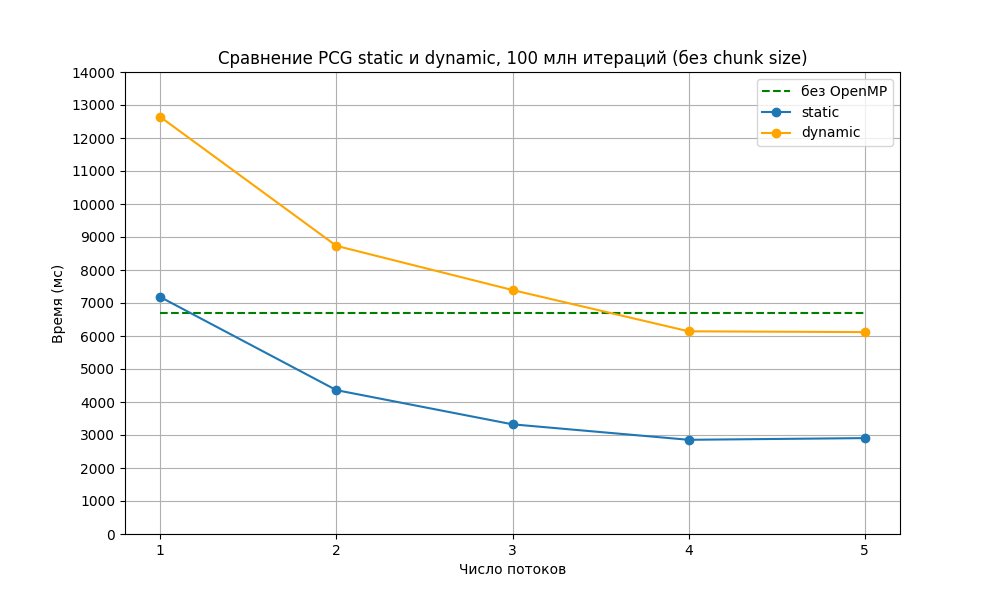
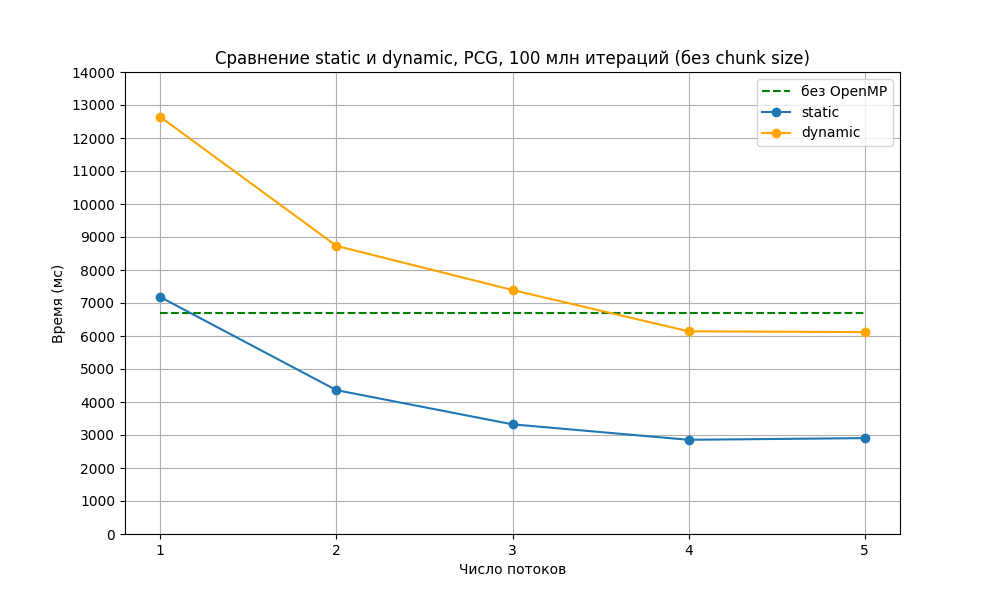
REPORT.md added

Changed region(s): [[0.217, 0.06, 0.806, 0.12]]

diff --git a/REPORT.md b/REPORT.md
@@ -1,37 +1,171 @@
-| Лабораторная работа №4 | M31<Группа> | АОВС |
+| Лабораторная работа №4 | M3101 | АОВС |
 | ---------------------- | ----------- | ---- |
-| OpenMP                 | <ФИО>       | 2024 |
+| OpenMP                 | Дорохина Елена       | 2024 |
 
-> [!important]  
-> Не забудьте указать в шапке свои ФИО и Номер группы
 
 ## Инструментарий
-> При наличии переписываем из ТЗ, если требуется, указываем свои данные (компилятор/стандарт и т.д.).
+Язык С++17, стандарт OpenMP 2.0. IDE Clion, компилятор cygwin64 3.5.0 c++
 
 ## Что реализовано
-> Пишем свой вариант и что было выполнено (упрощенная или полная версия работы). Если что-то по ТЗ не работает, то лучше указать это здесь.
+полная версия
+
+## Результат работы на тестовых данных: <https://github.com/skkv-itmo-comp-arch/se-ca24-backlog-omp-kaleidostop/actions/runs/10802062866> 
 
 # Описание:
+### Результат работы программы
+при N = 100000000
 
-> Раздел, в котором вы описываете свою реализацию:
->
-> Результат работы написанной программы (то, что выводится в стандартный поток вывода и выходной файл на тесте с наилучшим распределением потоков) с указанием процессора, на котором производилось тестирование.
-> 
-> Описание конструкций OpenMP для распараллеливания команд, которые использовались и как они работают.
-> 
-> Описание работы написанного кода. Как реализовано распараллеливание кода при помощи ранее описанных конструкций. При описании работы написанного кода может быть полезно приложить небольшие рисунки для иллюстрации пояснений (а не просто фразу “взял из спецификации”).
-> 
-> Тестирование. Раздел должен содержать графики, которые подробно описаны в Описание работы.
-> ВАЖНО: По всем графикам необходимо сделать выводы – что наблюдается по графикам (что лучше/хуже) и как вы думаете, почему получился именно такой результат.
->
->> Представьте, что вы пришли на защиту, и вам сказали "Рассказывай, что как реализовано".
+V = 1.25654
 
-### Примечания по оформлению (можно удалить после создания отчёта)
+Time(4 thread(s)): 2711.93 ms 
 
-1. Не нужно вставлять своё описание как quote (цитату). 
-2. Старайтесь также разбивать ваш текст на логические разделы и отделять мысли заголовками.
-3. Если хочется вставить фрагменты кода, то делаете это блоком кода. Если же ссылаетесь на код, то рекомендуется это делать через permalink на файлы в репозитории.
-4. Можно пользоваться всеми возможностями Github Markdown.
-5. Никаких фоток в отчёте, ровно как и скринов полного экрана. Это больно смотреть \(
-6. Если вы хотите вставить изображение из сети, то не нужно его грузить в репозиторий.
-7. В случае описание подсхем Logisim, если вы просто ссылаетесь на подсхему в целом, то достаточно указать назвнаие подсхемы из проекта. Если же вы описываете какой-то небольшой фрагмент схемы, то лучше его вставить в виде рисунка в отчёт.
+Процессор, на котором производилось тестирование:
+Intel Core i3-8145U CPU @ 2.10GHz (2 ядра, 4 логических процессора)
+
+### Используемые конструкции 
+
+**\#pragma omp parallel num_threads(n_threads)**
+создает область, в которой код будет выполняться параллельно заданным n_threads количеством потоков  
+
+**\#pragma omp for schedule(static[dynamic], chunk_size) nowait**
+распределяет итерации цикла for между потоками 
+- static: делит итерации на куски фиксированного размера (chunk_size), которые заранее распределяются между потоками. По умолчанию (без chunk_size) итерации делятся равномерно между потоками 
+- dynamic: делит итерации на куски, которые выделяются во время работы программы. Новый чанк выделяется первому свободному потоку. По умолчанию (без chunk size) потоки получают по одной итерации.
+
+**nowait** указывает, чтобы потоки не ждали окончания выполнения итерации другими потоками, а сразу переходили к следующей
+
+**\#pragma omp atomic**
+гарантирует, что итерация будет выполнена атомарно, то есть не произойдет гонки при попытке записать данные
+
+**omp_get_wtime()**
+возвращает текущее время с момента начала программы (в секундах)
+
+**omp_get_max_threads()**
+возвращает максимальное количество потоков, которые могут быть использованы
+
+**omp_get_thread_num()**
+возвращает номер потока, в котором вызывается
+
+
+### Описание работы кода
+#### Аргументы
+- При передаче аргумента --no_omp запускается однопоточная реализация кода.
+- При передаче аргумента --omp-threads default число потоков приравнивается к максимально возможному для данного процессора, которое определяется с помощью **omp_get_max_threads()**
+- При передаче аргумента --omp-threads [число] число потоков приравнивается к [числу]
+- --input [файл], --output [файл]
+
+#### Метод Монте-Карло
+
+Для подсчета объема с помощью метода Монте-Карло надо посчитать, сколько раз из N произошло попадание случайной точки в область, ограниченную поверхностью. После этого объем фигуры получается как результат умножения относительного числа попаданий на объем куба, внутри которого находится поверхность и генерируются точки. Подсчет числа попаданий в цикле можно распараллелить.
+
+#### Оптимизации цикла
+Основная часть кода -- цикл. Цикл распараллеливается с помощью **#pragma omp for**, с помощью **schedule(kind[, chunk_size])** устанавливается способ разделения итераций по потокам. Внутри цикла должно происходить увеличение переменной hit. Но если использовать одну переменную в разных потоках, может произойти конфликт: разные потоки считают значение переменной одновременно и оба запишут обратно значение hit+1 вместо суммарного hit+2.
+Для избежания этого для каждого потока создается локальная переменная local_hit, в которой считается число попаданий для данного потока, а потом локальные переменные складываются в общую переменную hit.
+Вместо создания локальных переменных можно было использовать перед ++hit директиву **atomic**, которая предотвращает конфликты, но она работает слишком долго. Тем не менее, эта директива используется при склеивании переменных после цикла, где разница в скорости не так критична. 
+
+Иллюстрация подсчета hit:
+``` c++
+        long long local_hit = 0;
+#pragma omp for schedule(static, chunk_size)
+        for (int i = 0; i < N; ++i) {
+            float x = x_distribution(generator);
+            float y = y_distribution(generator);
+            float z = z_distribution(generator);
+            if (hit_test(x, y, z)) {
+                ++local_hit;
+            }
+        }
+#pragma omp atomic
+        hit += local_hit;
+```
+
+Для ускорения этот код далее был модифицирован, чтобы на каждой итерации менялись не 3 координаты, а только одна. При этом:
+- затрачивается в 3 раза меньше времени на генерацию чисел
+- уже использованные значения координат хранятся в кэше, за счет чего при повторном вызове с теми же значениями тратится меньше времени на обращение к памяти. 
+
+Также была добавлена опция **nowait**, чтобы потоки не ожидали завершения других потоков.
+
+#### hit.cpp
+Функция hit_test определяет, попадает ли точка в область, ограниченную фигурой (т.е Ф(x, y, z) < 0, где Ф -- уравнение, задающее поверхность piriform с параметром a = 2).
+Для сокращения числа умножений x * x выносится в отдельную переменную x2, в Ф x2 выносится за скобки.
+
+Функция get_axis_range задает границы куба, в котором лежит фигура. От размера границ зависит число промахов и точность вычисления объема. В данном случае границы первоначально подбирались на глаз по компьютерной модели фигуры, затем были уточнены с помощью дифференцирования. 
+
+#### Генерация рандомных чисел
+Проверялись разные генераторы рандомных чисел.
+Во всех случаях используется thread_local генератор, чтобы каждый поток генерировал числа независимо от других потоков, что минимизирует риск конфликтов.
+Кроме того, каждому генератору задается разное начальное состояние в зависимости от номера потока. Для разных осей координат также используются разные генераторы (в случае mt19937 -- распределения), чтобы они точно не зависели друг от друга.
+Генератор rand() не проверялся, так как у него есть общее внутреннее состояние и потому он не потокобезопасный.
+
+Протестированные генераторы:
+- std::mt19937 из стандартной библиотеки random.
+- xorshift
+- pcg32
+
+Последние два генерируют числа типа uint32_t, и для того, чтобы использовать их для генерации float, был написан следующий код:  
+
+``` c++
+float nextFloat(const float & min, const float & max) {
+    union {
+        uint32_t i;
+        float f;
+    } u;
+    u.i = (next() >> 9) | 0x3F800000;
+
+    return (u.f - 1.f) * (max - min) + min;
+    }
+```
+
+Сдвиг >> 9 -- получение старших 23 бит числа для мантиссы. Операция | 0x3F800000 -- приравнивание экпоненты к 0. Получаем битовое представление случайного float в диапазоне [1, 2). Для получения float в диапазоне [0, 1) вычитаем единицу, дальше преобразуем число для попадания его в заданный диапазон.
+
+Этот способ быстрее, чем стандартный способ получения float из uint32_t путем деления на максимальное uint32_t, т.к. используются более дешевые операции, чем деление floating point.
+
+
+
+### Тестирование 
+При тестировании время выполнения усреднялось по 4 вызовам (в случае no-omp -- по 10 вызовам), а также отслеживалось состояние загруженности системы и не запускались посторонние программы.
+
+Сравнение проводилось по следующим параметрам:
+- различные генераторы
+
+![generators](img/performance_generators.png)
+
+Был выбран генератор PCG, показавший себя немного быстрее xorshift и значительно быстрее MT19937 и обладающий более хорошими статистическими характеристиками, чем остальные протестированные генераторы.
+
+- различные значения числа потоков при одинаковом параметре schedule (без chunk_size);
+
+![static dynamic](img/static_dynamic_comparison.png)
+
+При увеличении числа потоков время уменьшается, пока число потоков не становится максимальным возможным (в данном случае -- 4 потока).
+
+Когда chunk size не указывается, по умолчанию static запускается с chunk_size = N / num_threads, dynamic запускается с chunk_size = 1.
+
+В таких условиях static оказался значительно быстрее dynamic. Это потому, что в static итерации распределялись между потоками заранее, так что в процессе выполнения кода время на это не тратилось, а в dynamic время на распределение потоков тратилось после каждой итерации.
+Код без использования OpenMP оказался чуть-чуть быстрее запуска параллельной версии с одним потоком, потому что не тратилось время на управление распараллеливанием. 
+
+
+- различные параметры schedule (с chunk_size) при одинаковом значении числа потоков;
+
+1. Число потоков -- default (4)
+
+![chunk size](img/chunk_size_performance.png)
+
+При увеличении chunk size dynamic приближается к static. Это происходит потому, что становится меньше чанков и значит во время выполнения кода тратится меньше времени на распределение чанков по потокам.
+
+При chunk size > N / num_threads одним потокам достается меньше других, вплоть до того, что при chunk size = N все итерации достаются только одному потоку, поэтому время исполнения приближается ко времени работы одного потока.
+
+Быстрее всего отработал static с chunk size = 1.
+
+2. Число потоков -- 1.
+
+![chunk size 1](img/chunk_size_one_performance.png)
+
+При одном потоке разница в chunk size также проявляется, потому что все еще тратится время на распределение чанков, несмотря на то, что они распределяются одному потоку.
+
+При увеличении N не происходит такого же замедления, как в первом случае, потому что все итерации уже выполняются одним потоком.
+
+
+- Итак, в ходе тестирования было определено, что оптимальнее всего использовать schedule с параметром static и chunk size = 1, а числа генерировать с помощью PCG.
+
+![best](img/best.png)
+
